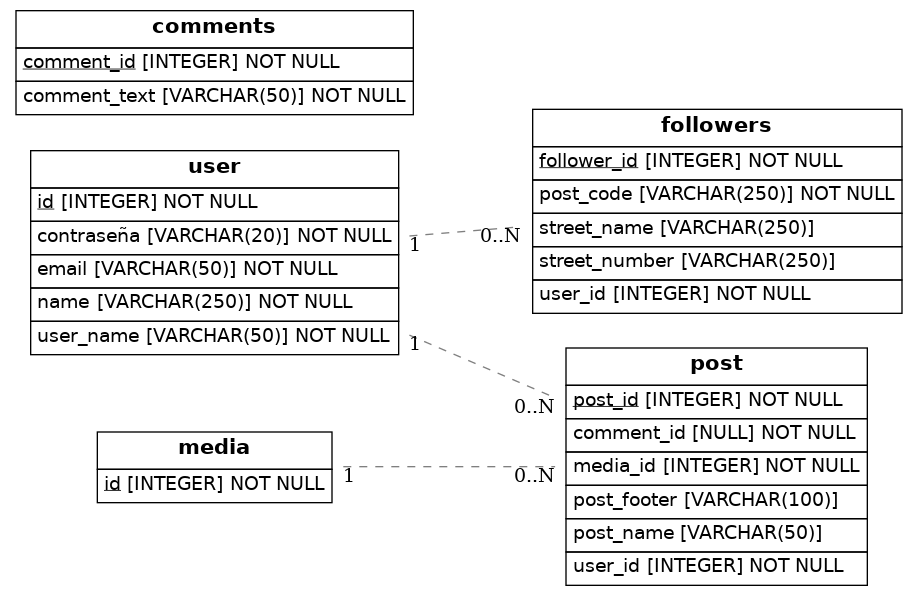
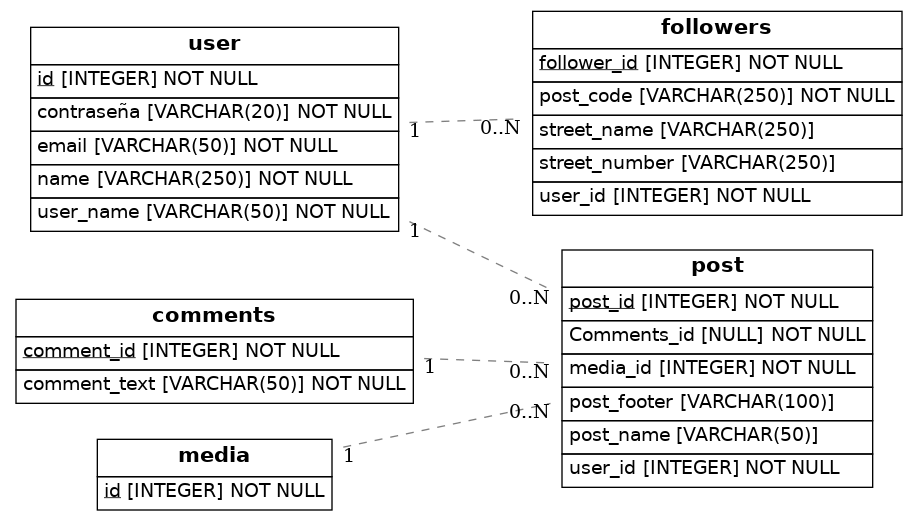
correciones

diff --git a/src/models.py b/src/models.py
@@ -31,8 +31,8 @@ class Post(Base):
     post_name =mapped_column(String(50))
     post_footer=mapped_column(String(100))
     user_id: Mapped[int] = mapped_column(ForeignKey("user.id"))
-    comments: Mapped[List[comments]] = relationship(secondary=association_table)
     media_id: Mapped[int] = mapped_column(ForeignKey("media.id"))
+    Comments_id: Mapped[int] = mapped_column(ForeignKey("comments.id"))
 
 
 class Followers(Base):
@@ -45,11 +45,11 @@ class Followers(Base):
     user_id: Mapped[int] = mapped_column(ForeignKey("user.id"))
 
 class Comments(Base):
-    __tablename__ = 'comments'   
-
+    __tablename__ = 'comments'
     comment_id = mapped_column(Integer, primary_key=True)
     comment_text =mapped_column(String(50), nullable=False)
     post: Mapped[List["Post"]] = relationship()
+    
 
     
 
@@ -58,16 +58,6 @@ class Media(Base):
   
     id = Column(Integer, primary_key=True)
     post: Mapped[List["Post"]] = relationship()
-    
-class Base(DeclarativeBase):
-    pass
-association_table = Table (
-    "association_table",
-    Base.metadata,
-    Column("post_id", ForeignKey("post.id"), primary_key=True),
-    Column("comments_id", ForeignKey("comments.id"), primary_key=True),
-)    
-    
 
 ## Draw from SQLAlchemy base
 try:
